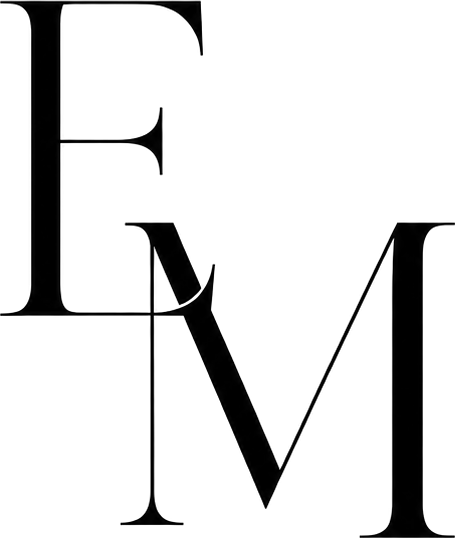
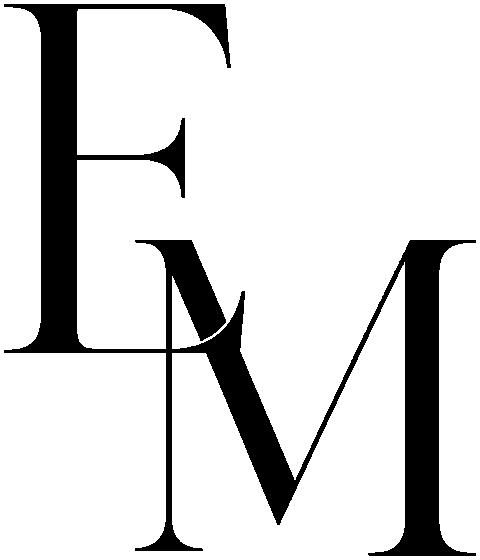
Brand: the client's new name lockup in the bar, the new monogram everywhere else
- The bar shows the supplied EM PHOTOGRAPHY / WEDDING & PORTRAIT
  PHOTOGRAPHER lockup instead of typed text: at the left on the desktop,
  centred on the phone and clear of the burger.
- The new official EM monogram replaces the old one (footer, favicon;
  black and white lockup and mark files regenerated from it).

Claude-Session: https://claude.ai/code/session_01DGPSLFzjNP4VGwdcMUUaFc

diff --git a/components/layout/Header.module.css b/components/layout/Header.module.css
@@ -1,12 +1,11 @@
 /* ============================================================
-   Header — the name set as type in the middle of the bar; the
+   Header — the name lockup at the left of the bar; the
    four links themselves on the right on the desktop, one burger
    on the phone. It sits on warm white, stays put while the page
    scrolls, and never draws a rule beneath itself.
 
-   The name is sized in cqw — a share of the bar's own width —
-   so it keeps the proportions of the client's mockups at any
-   width and stops growing with the page frame.
+   The name is the client's lockup, sized in cqw — a share of the
+   bar's own width — and capped so it stops growing with the frame.
    ============================================================ */
 
 .header {
@@ -27,10 +26,6 @@
   /* On the site's measure: the links end where the page's content ends. */
   width: min(var(--measure-max), 100% - 2 * var(--measure-gutter));
   margin-inline: auto;
-
-  /* capped at the size it had when the page stopped at 1760px, so the
-     name never grows past it on a wider screen */
-  --wordmark-size: max(1.3rem, min(1.8cqw, 31.68px));
 }
 
 /* The desktop sets the name at the left of the bar; the phone centres it,
@@ -51,26 +46,13 @@
   opacity: 0.7;
 }
 
-/* EM PHOTOGRAPHY */
-.wordmark {
-  font-family: var(--font-garamond);
-  font-size: var(--wordmark-size);
-  font-weight: 500;
-  line-height: 1;
-  text-transform: uppercase;
-  color: var(--color-ink);
-}
-
-/* WEDDING & PORTRAIT PHOTOGRAPHER — the site's label, exactly. */
-.tagline {
-  margin-top: 8px;
-  font-family: var(--font-garamond);
-  font-size: var(--t-label);
-  font-weight: 600;
-  line-height: 1;
-  letter-spacing: var(--ls-label);
-  text-transform: uppercase;
-  color: var(--color-ink);
+/* EM PHOTOGRAPHY over WEDDING & PORTRAIT PHOTOGRAPHER — the supplied
+   lockup, as wide as the typed name was on the desktop, growing a little
+   with the bar and never past 340px. */
+.wordmarkImage {
+  display: block;
+  width: clamp(260px, 21cqw, 340px);
+  height: auto;
 }
 
 /* ---------- Desktop navigation ----------
@@ -120,8 +102,6 @@
 
 @media (max-width: 860px) {
   .inner {
-    --wordmark-size: 5.49cqw;
-
     /* the burger's own width on either side, so the name stays centred and
        the burger ends exactly on the margin */
     grid-template-columns: 44px 1fr 44px;
@@ -138,9 +118,9 @@
     text-align: center;
   }
 
-  .tagline {
-    /* the tracking is added after the last letter too, so it recentres */
-    text-indent: var(--ls-label);
+  /* centred, and always clear of the burger at the right margin */
+  .wordmarkImage {
+    width: min(272px, 100cqw - 140px);
   }
 
   .nav {

diff --git a/components/layout/Header.tsx b/components/layout/Header.tsx
@@ -1,6 +1,7 @@
 "use client";
 
 import { useEffect, useId, useState } from "react";
+import Image from "next/image";
 import Link from "next/link";
 import { usePathname } from "next/navigation";
 import TopLink from "@/components/ui/TopLink";
@@ -9,8 +10,9 @@ import { NAV } from "@/lib/data";
 import styles from "./Header.module.css";
 
 /**
- * The name set as type in the middle of the bar — EM PHOTOGRAPHY over
- * WEDDING & PORTRAIT PHOTOGRAPHER — with, on the right, the four links
+ * The supplied name lockup — EM PHOTOGRAPHY over WEDDING & PORTRAIT
+ * PHOTOGRAPHER — at the left of the bar (centred on the phone), with, on
+ * the right, the four links
  * printed in full on the desktop — Home, Portfolio, About, Contact — and,
  * on the phone, the burger that opens the same four full screen.
  *
@@ -35,8 +37,17 @@ export default function Header() {
             label="EM Photography — back to the top of the page"
             onClick={() => setOpen(false)}
           >
-            <span className={styles.wordmark}>EM Photography</span>
-            <span className={styles.tagline}>Wedding &amp; Portrait Photographer</span>
+            {/* The supplied lockup — EM PHOTOGRAPHY over WEDDING & PORTRAIT
+                PHOTOGRAPHER — never re-typed with a font. */}
+            <Image
+              src="/brand/em-wordmark-black.png"
+              alt="EM Photography — Wedding & Portrait Photographer"
+              width={1219}
+              height={174}
+              priority
+              sizes="(max-width: 860px) 272px, 340px"
+              className={styles.wordmarkImage}
+            />
           </TopLink>
 
           {/* Desktop — the four links themselves, widely spaced and thin. */}

diff --git a/components/ui/Logo.tsx b/components/ui/Logo.tsx
@@ -3,8 +3,8 @@ import styles from "./Logo.module.css";
 
 /** Intrinsic sizes of the supplied lockup and of the monogram cut from it. */
 const SIZES = {
-  lockup: { width: 691, height: 647 },
-  mark: { width: 455, height: 538 },
+  lockup: { width: 697, height: 661 },
+  mark: { width: 480, height: 560 },
 };
 
 type LogoProps = {
